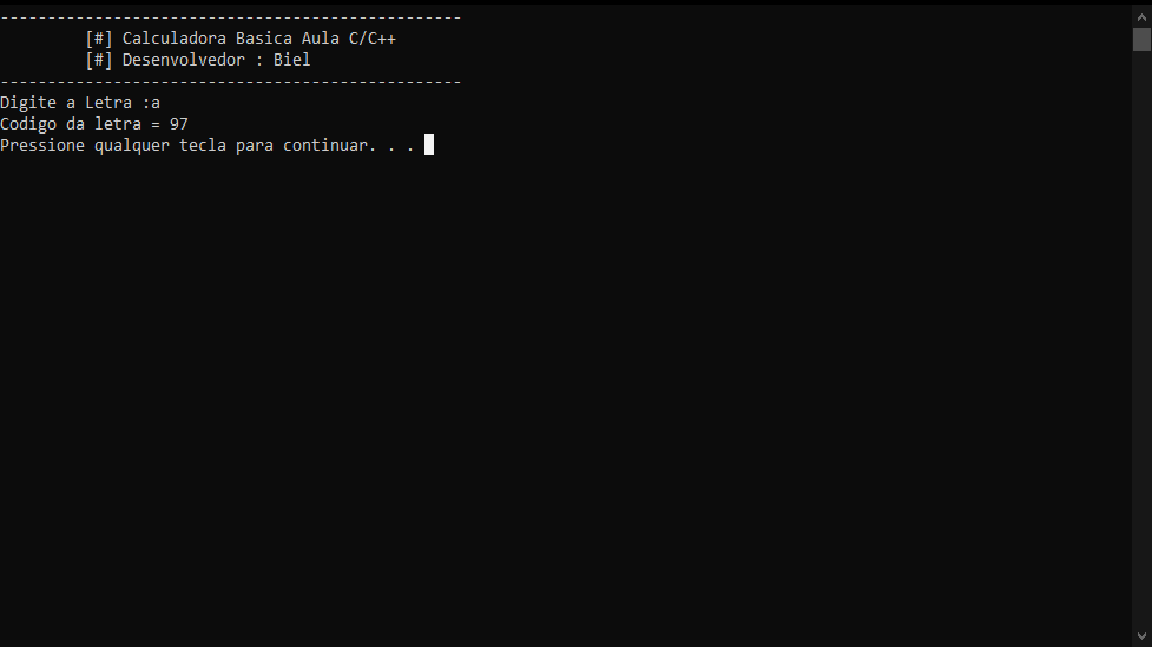
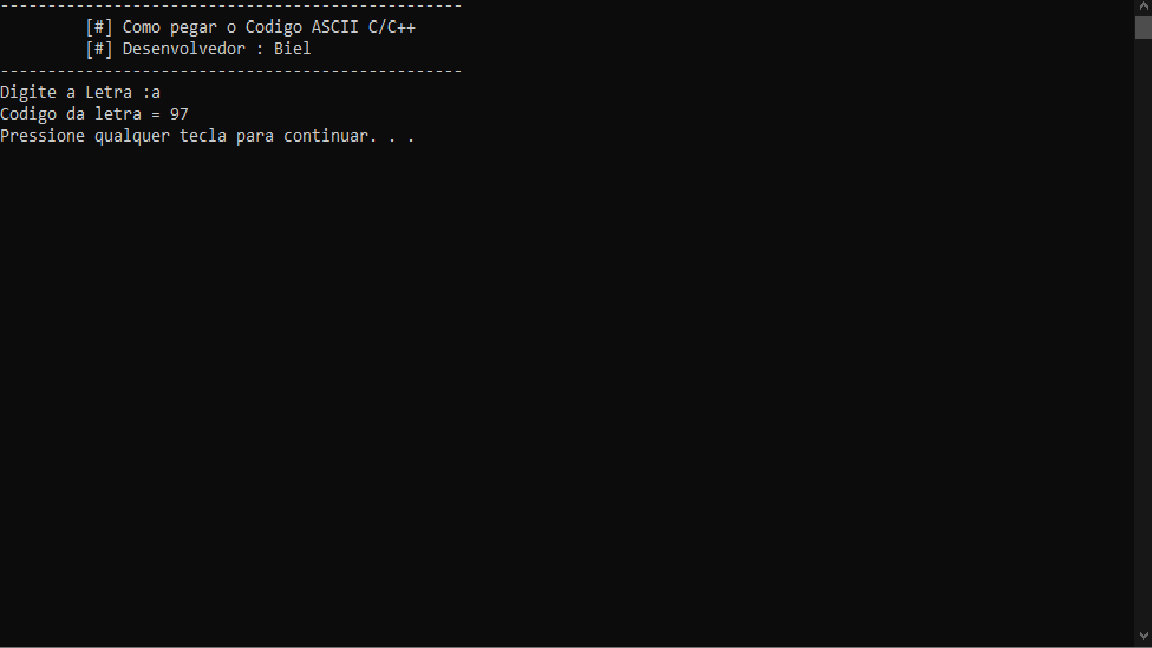
att

Changed region(s): [[0.0, 0.0, 0.4062, 0.2469], [0.0, 0.9877, 1.0, 1.0], [0.9688, 0.0, 1.0, 0.0926]]

diff --git a/Calculadora_Completa/README.md b/Calculadora_Completa/README.md
@@ -1,0 +1,23 @@
+# Sobre o projeto
+
+Calculadora simples desenvolvida na linguagem C com as opções de Somar,Subtrair,Dividir e Multiplicar. 
+Bem Simples de utilizar escolha sua opção depois digite 2 valores para obter seu resultado.
+
+
+<h1> Calculadora Básica</h1>
+
+![Calculadora 1](https://raw.githubusercontent.com/GBSOficial/Projetos_C/main/Calculadora_Completa/Prints/Inicio.png)
+
+# Tecnologias utilizadas
+
+- Linguagem C
+
+
+
+# Autor
+
+Gabriel Bruno da Silva
+<br>
+[![Site](https://img.shields.io/website?label=GBSOficial.com&style=for-the-badge&url=https://gbsoficial.com)](https://gbsoficial.com)
+[![linkedin](https://img.shields.io/badge/LinkedIn-0077B5?style=for-the-badge&logo=linkedin&logoColor=white)](https://www.linkedin.com/in/gabriel-bruno-136a39241/)
+[![Instagram](https://img.shields.io/badge/Instagram-E4405F?style=for-the-badge&logo=instagram&logoColor=white)](https://www.instagram.com/gbs.oficial/)

diff --git a/Calculadora_NumerosPrimos/README.md b/Calculadora_NumerosPrimos/README.md
@@ -1,0 +1,23 @@
+# Sobre o projeto
+
+Calculadora simples de numeros primos desenvolvida na linguagem C que indentifica se o numero é ou não primo e explica o motivo.
+
+
+
+<h1> Calculadora Básica de Numeros Primos</h1>
+
+![Calculadora 1](https://raw.githubusercontent.com/GBSOficial/Projetos_C/main/Calculadora_NumerosPrimos/Print/inicio.png)
+
+# Tecnologias utilizadas
+
+- Linguagem C
+
+
+
+# Autor
+
+Gabriel Bruno da Silva
+<br>
+[![Site](https://img.shields.io/website?label=GBSOficial.com&style=for-the-badge&url=https://gbsoficial.com)](https://gbsoficial.com)
+[![linkedin](https://img.shields.io/badge/LinkedIn-0077B5?style=for-the-badge&logo=linkedin&logoColor=white)](https://www.linkedin.com/in/gabriel-bruno-136a39241/)
+[![Instagram](https://img.shields.io/badge/Instagram-E4405F?style=for-the-badge&logo=instagram&logoColor=white)](https://www.instagram.com/gbs.oficial/)

diff --git a/Pegando_CodigoASCII/README.md b/Pegando_CodigoASCII/README.md
@@ -1,0 +1,23 @@
+# Sobre o projeto
+
+Executavel que Captura o caracteres ASCII e a sua numeração decima
+
+
+
+<h1> Como pegar Código ASCII</h1>
+
+![Calculadora 1](https://raw.githubusercontent.com/GBSOficial/Projetos_C/main/Pegando_CodigoASCII/Print/Inicio.png)
+
+# Tecnologias utilizadas
+
+- Linguagem C
+
+
+
+# Autor
+
+Gabriel Bruno da Silva
+<br>
+[![Site](https://img.shields.io/website?label=GBSOficial.com&style=for-the-badge&url=https://gbsoficial.com)](https://gbsoficial.com)
+[![linkedin](https://img.shields.io/badge/LinkedIn-0077B5?style=for-the-badge&logo=linkedin&logoColor=white)](https://www.linkedin.com/in/gabriel-bruno-136a39241/)
+[![Instagram](https://img.shields.io/badge/Instagram-E4405F?style=for-the-badge&logo=instagram&logoColor=white)](https://www.instagram.com/gbs.oficial/)
